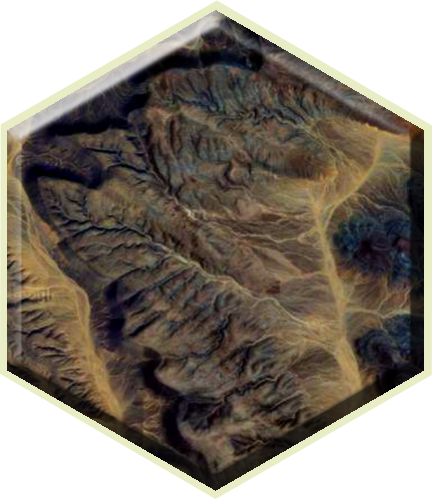
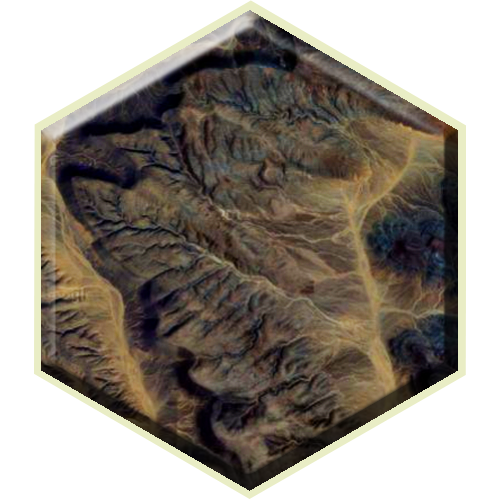
it works!

diff --git a/saarsiedler-group16/src/main/java/de/unisaarland/cs/sopra/common/view/GameGUI.java b/saarsiedler-group16/src/main/java/de/unisaarland/cs/sopra/common/view/GameGUI.java
@@ -119,13 +119,13 @@ public class GameGUI extends View{
 		   GL11.glClear(GL11.GL_COLOR_BUFFER_BIT | GL11.GL_DEPTH_BUFFER_BIT);
 		   // center square according to screen size
 		   GL11.glPushMatrix();
-		   GL11.glTranslatef(0.0f, -0.0f, -2000.0f); //-4000 ist z koord
+		   GL11.glTranslatef(0.0f, -0.0f, angle--); //-4000 ist z koord
 			// rotate square according to angle
 		   GL11.glRotatef(/*angle++*/0, 0, 0, 1.0f);
 		   GL11.glColor3f(1.0f, 1.0f, 1.0f);
 	
+		  // GL11.glTranslatef(-modelReader.getBoardWidth()*215/2, modelReader.getBoardHeight()*250/2, 0.0f);
 		   
-		   modelReader.
 		   Iterator<Field> iter = modelReader.getFieldIterator();
 		   while (iter.hasNext()) {
 			   Field f = iter.next();
